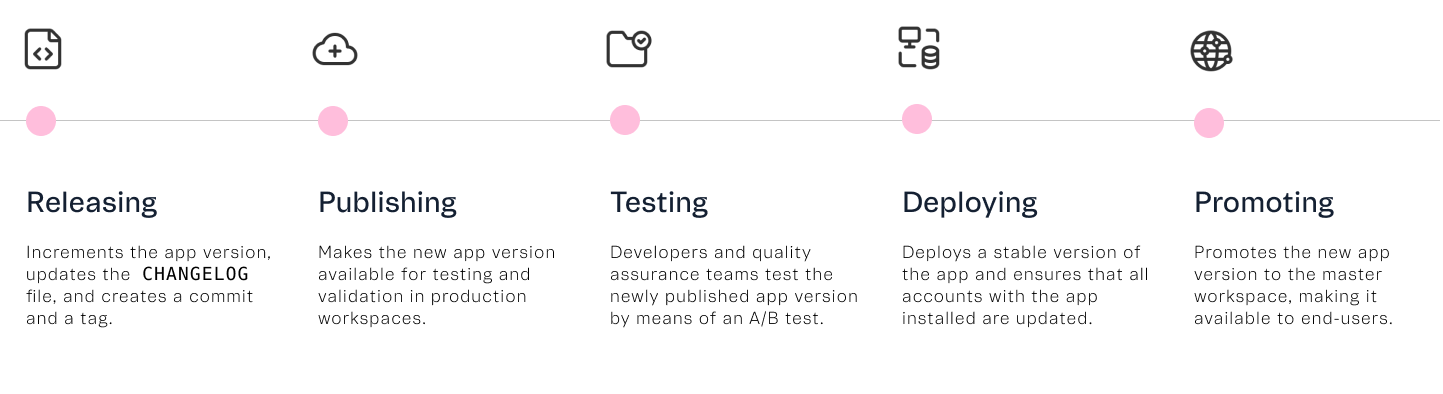
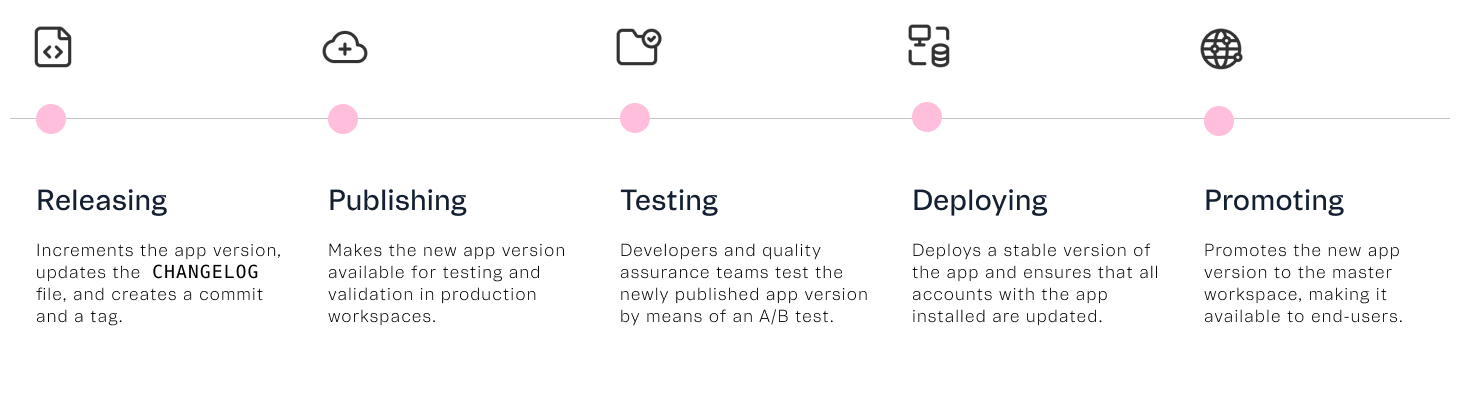
fix: update image

diff --git a/docs/vtex-io/App-Guides/vtex-io-documentation-making-your-new-app-version-publicly-available.md b/docs/vtex-io/App-Guides/vtex-io-documentation-making-your-new-app-version-publicly-available.md
@@ -9,7 +9,7 @@ updatedAt: "2022-12-13T20:17:44.423Z"
 
 Deploying a new version of your app in VTEX IO is a crucial step in delivering improvements and updates to your target audience. This guide will walk you through the process to make your latest app version publicly available.
 
-![public](https://github.com/vtexdocs/dev-portal-content/blob/main/images/making-an-app-publicly-available.png)
+![public](https://cdn.jsdelivr.net/gh/vtexdocs/dev-portal-content@main/images/making-an-app-publicly-available.png)
 
 <Steps>
 
